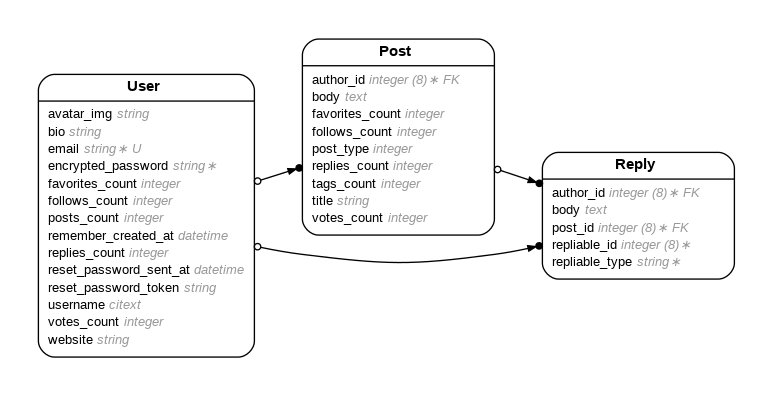
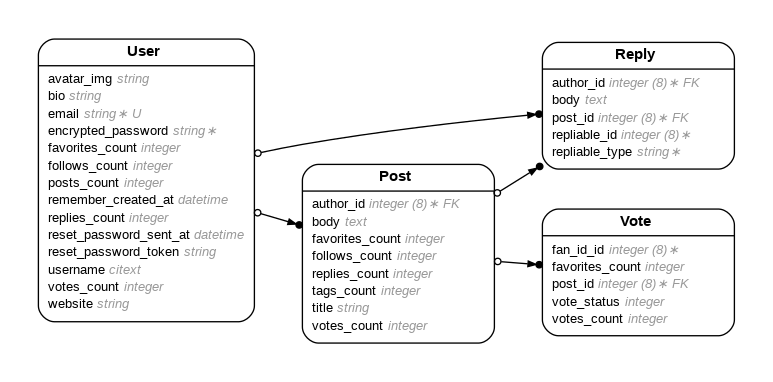
revised post model - removed column

diff --git a/app/assets/stylesheets/votes.scss b/app/assets/stylesheets/votes.scss
@@ -1,0 +1,3 @@
+// Place all the styles related to the votes controller here.
+// They will automatically be included in application.css.
+// You can use Sass (SCSS) here: https://sass-lang.com/

diff --git a/app/controllers/votes_controller.rb b/app/controllers/votes_controller.rb
@@ -1,0 +1,69 @@
+class VotesController < ApplicationController
+  before_action :set_vote, only: %i[ show edit update destroy ]
+
+  # GET /votes or /votes.json
+  def index
+    @votes = Vote.all
+  end
+
+  # GET /votes/1 or /votes/1.json
+  def show
+  end
+
+  # GET /votes/new
+  def new
+    @vote = Vote.new
+  end
+
+  # GET /votes/1/edit
+  def edit
+  end
+
+  # POST /votes or /votes.json
+  def create
+    @vote = Vote.new(vote_params)
+
+    respond_to do |format|
+      if @vote.save
+        format.html { redirect_to @vote, notice: "Vote was successfully created." }
+        format.json { render :show, status: :created, location: @vote }
+      else
+        format.html { render :new, status: :unprocessable_entity }
+        format.json { render json: @vote.errors, status: :unprocessable_entity }
+      end
+    end
+  end
+
+  # PATCH/PUT /votes/1 or /votes/1.json
+  def update
+    respond_to do |format|
+      if @vote.update(vote_params)
+        format.html { redirect_to @vote, notice: "Vote was successfully updated." }
+        format.json { render :show, status: :ok, location: @vote }
+      else
+        format.html { render :edit, status: :unprocessable_entity }
+        format.json { render json: @vote.errors, status: :unprocessable_entity }
+      end
+    end
+  end
+
+  # DELETE /votes/1 or /votes/1.json
+  def destroy
+    @vote.destroy
+    respond_to do |format|
+      format.html { redirect_to votes_url, notice: "Vote was successfully destroyed." }
+      format.json { head :no_content }
+    end
+  end
+
+  private
+    # Use callbacks to share common setup or constraints between actions.
+    def set_vote
+      @vote = Vote.find(params[:id])
+    end
+
+    # Only allow a list of trusted parameters through.
+    def vote_params
+      params.require(:vote).permit(:post_id_id, :fan_id_id, :status)
+    end
+end

diff --git a/db/schema.rb b/db/schema.rb
@@ -10,7 +10,7 @@
 #
 # It's strongly recommended that you check this file into your version control system.
 
-ActiveRecord::Schema.define(version: 2021_05_21_013247) do
+ActiveRecord::Schema.define(version: 2021_05_21_020616) do
 
   # These are extensions that must be enabled in order to support this database
   enable_extension "citext"
@@ -19,7 +19,6 @@ ActiveRecord::Schema.define(version: 2021_05_21_013247) do
   create_table "posts", force: :cascade do |t|
     t.string "title"
     t.text "body"
-    t.integer "post_type"
     t.bigint "author_id", null: false
     t.integer "replies_count", default: 0
     t.integer "votes_count", default: 0
@@ -66,7 +65,21 @@ ActiveRecord::Schema.define(version: 2021_05_21_013247) do
     t.index ["username"], name: "index_users_on_username", unique: true
   end
 
+  create_table "votes", force: :cascade do |t|
+    t.bigint "post_id", null: false
+    t.bigint "fan_id_id", null: false
+    t.integer "vote_status"
+    t.integer "votes_count", default: 0
+    t.integer "favorites_count", default: 0
+    t.datetime "created_at", precision: 6, null: false
+    t.datetime "updated_at", precision: 6, null: false
+    t.index ["fan_id_id"], name: "index_votes_on_fan_id_id"
+    t.index ["post_id"], name: "index_votes_on_post_id"
+  end
+
   add_foreign_key "posts", "users", column: "author_id"
   add_foreign_key "replies", "posts"
   add_foreign_key "replies", "users", column: "author_id"
+  add_foreign_key "votes", "posts"
+  add_foreign_key "votes", "users", column: "fan_id_id"
 end

diff --git a/test/controllers/votes_controller_test.rb b/test/controllers/votes_controller_test.rb
@@ -1,0 +1,48 @@
+require "test_helper"
+
+class VotesControllerTest < ActionDispatch::IntegrationTest
+  setup do
+    @vote = votes(:one)
+  end
+
+  test "should get index" do
+    get votes_url
+    assert_response :success
+  end
+
+  test "should get new" do
+    get new_vote_url
+    assert_response :success
+  end
+
+  test "should create vote" do
+    assert_difference('Vote.count') do
+      post votes_url, params: { vote: { fan_id_id: @vote.fan_id_id, post_id_id: @vote.post_id_id, status: @vote.status } }
+    end
+
+    assert_redirected_to vote_url(Vote.last)
+  end
+
+  test "should show vote" do
+    get vote_url(@vote)
+    assert_response :success
+  end
+
+  test "should get edit" do
+    get edit_vote_url(@vote)
+    assert_response :success
+  end
+
+  test "should update vote" do
+    patch vote_url(@vote), params: { vote: { fan_id_id: @vote.fan_id_id, post_id_id: @vote.post_id_id, status: @vote.status } }
+    assert_redirected_to vote_url(@vote)
+  end
+
+  test "should destroy vote" do
+    assert_difference('Vote.count', -1) do
+      delete vote_url(@vote)
+    end
+
+    assert_redirected_to votes_url
+  end
+end

diff --git a/test/system/votes_test.rb b/test/system/votes_test.rb
@@ -1,0 +1,47 @@
+require "application_system_test_case"
+
+class VotesTest < ApplicationSystemTestCase
+  setup do
+    @vote = votes(:one)
+  end
+
+  test "visiting the index" do
+    visit votes_url
+    assert_selector "h1", text: "Votes"
+  end
+
+  test "creating a Vote" do
+    visit votes_url
+    click_on "New Vote"
+
+    fill_in "Fan id", with: @vote.fan_id_id
+    fill_in "Post id", with: @vote.post_id_id
+    fill_in "Status", with: @vote.status
+    click_on "Create Vote"
+
+    assert_text "Vote was successfully created"
+    click_on "Back"
+  end
+
+  test "updating a Vote" do
+    visit votes_url
+    click_on "Edit", match: :first
+
+    fill_in "Fan id", with: @vote.fan_id_id
+    fill_in "Post id", with: @vote.post_id_id
+    fill_in "Status", with: @vote.status
+    click_on "Update Vote"
+
+    assert_text "Vote was successfully updated"
+    click_on "Back"
+  end
+
+  test "destroying a Vote" do
+    visit votes_url
+    page.accept_confirm do
+      click_on "Destroy", match: :first
+    end
+
+    assert_text "Vote was successfully destroyed"
+  end
+end

diff --git a/db/migrate/20210521014701_create_votes.rb b/db/migrate/20210521014701_create_votes.rb
@@ -1,0 +1,13 @@
+class CreateVotes < ActiveRecord::Migration[6.1]
+  def change
+    create_table :votes do |t|
+      t.references :post, null: false, foreign_key: true, index: true
+      t.references :fan_id, null: false, foreign_key: {to_table: :users}, index: true
+      t.integer :vote_status
+      t.integer :votes_count, default: 0
+      t.integer :favorites_count, default: 0
+
+      t.timestamps
+    end
+  end
+end

diff --git a/app/models/vote.rb b/app/models/vote.rb
@@ -1,0 +1,7 @@
+class Vote < ApplicationRecord
+  belongs_to :post
+  belongs_to :fan_id, class_name: "Users"
+  
+  enum vote_status: { down: 0, up: 1, star: 2 }
+
+end

diff --git a/db/migrate/20210521020005_remove_post_typefrom_post.rb b/db/migrate/20210521020005_remove_post_typefrom_post.rb
@@ -1,0 +1,9 @@
+class RemovePostTypefromPost < ActiveRecord::Migration[6.1]
+  def change
+
+  end
+
+  def up
+    remove_column :post, :post_type
+  end
+end

diff --git a/db/migrate/20210521020149_remove_post_typefrom_posts.rb b/db/migrate/20210521020149_remove_post_typefrom_posts.rb
@@ -1,0 +1,8 @@
+class RemovePostTypefromPosts < ActiveRecord::Migration[6.1]
+  def change
+  end
+
+  def up
+    remove_column :posts, :post_type
+  end
+end

diff --git a/db/migrate/20210521020616_remove_post_type_from_posts.rb b/db/migrate/20210521020616_remove_post_type_from_posts.rb
@@ -1,0 +1,5 @@
+class RemovePostTypeFromPosts < ActiveRecord::Migration[6.1]
+  def change
+    remove_column :posts, :post_type, :integer
+  end
+end

diff --git a/test/models/vote_test.rb b/test/models/vote_test.rb
@@ -1,0 +1,7 @@
+require "test_helper"
+
+class VoteTest < ActiveSupport::TestCase
+  # test "the truth" do
+  #   assert true
+  # end
+end

diff --git a/config/routes.rb b/config/routes.rb
@@ -3,6 +3,7 @@
 Rails.application.routes.draw do
 
 
+  resources :votes
   resources :replies
   root "posts#index"
 
